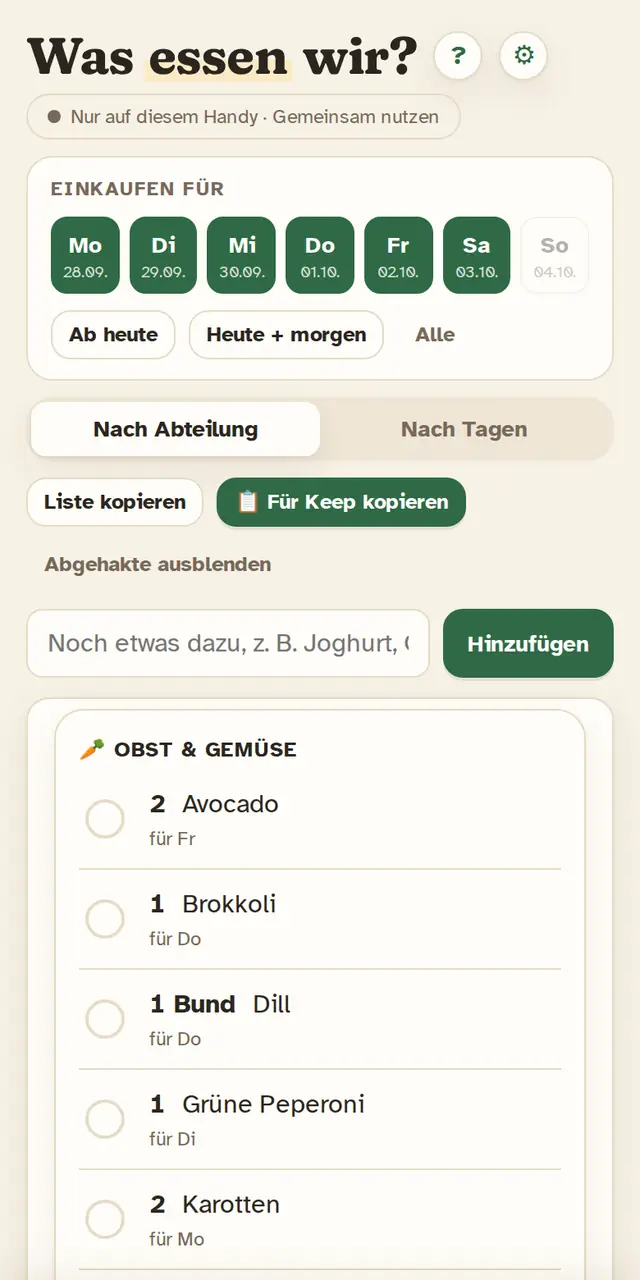
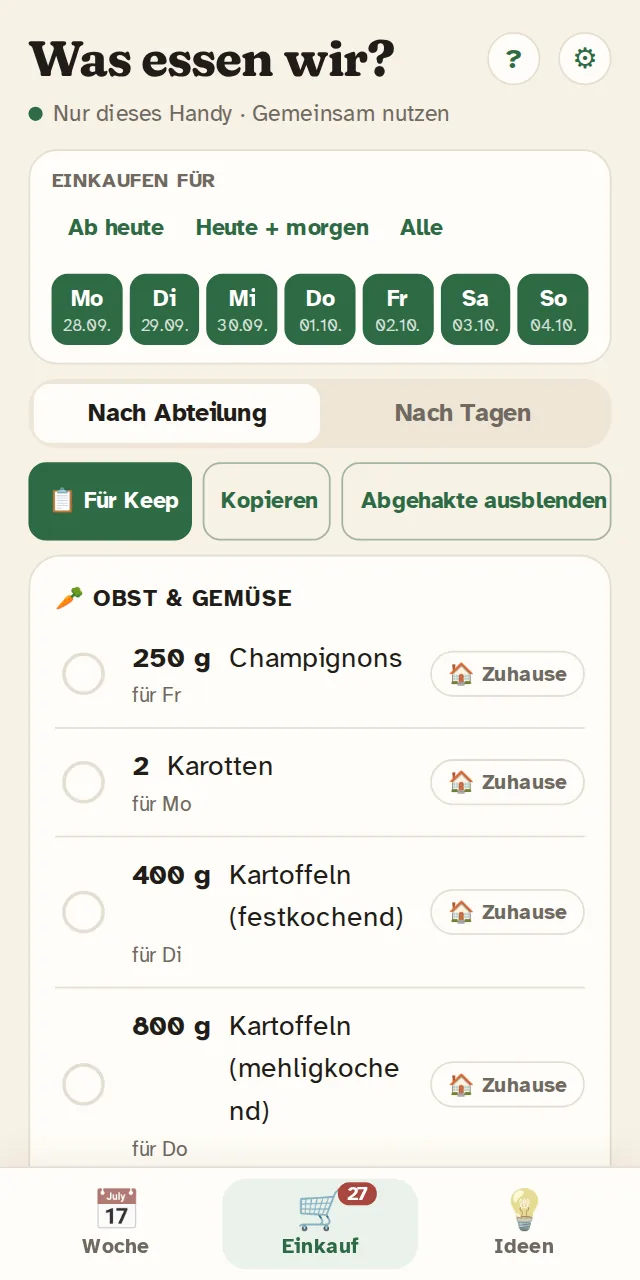
Anleitung: Screenshots und Texte aktualisiert; Layout auf schmalen Handys (Einkaufsliste, Rezept-Zeit)
Claude-Session: https://claude.ai/code/session_01G1VhmtjTG8FTCMXgmGuqa3

diff --git a/index.html b/index.html
@@ -207,7 +207,7 @@ button:focus-visible,input:focus-visible{outline:3px solid var(--mustard);outlin
 .item{display:flex;align-items:center;gap:12px;padding:9px 0;border-bottom:1px dashed var(--line)}
 .item:last-child{border-bottom:0}
 .item input{width:22px;height:22px;accent-color:var(--basil);flex:none;cursor:pointer}
-.item label{flex:1;min-width:0;cursor:pointer;display:grid;grid-template-columns:auto 1fr;column-gap:10px;align-items:baseline}
+.item label{flex:1;min-width:0;cursor:pointer;display:grid;grid-template-columns:auto minmax(0,1fr);overflow-wrap:break-word;column-gap:10px;align-items:baseline}
 .qty{font-variant-numeric:tabular-nums;font-weight:700;white-space:nowrap}
 .item label>span:only-child{grid-column:1/-1}
 .for{font-size:12px;color:var(--muted);grid-column:1/-1}
@@ -408,6 +408,7 @@ details.info p{margin:8px 0 0}
 .day{padding-top:10px;padding-bottom:10px}
 @media (max-width:460px){.day{grid-template-columns:44px 1fr auto;gap:8px}}
 .tags .tg{white-space:nowrap}
+.tags .tg:first-child{white-space:normal}
 .gfb{display:inline-block;font:700 9px/1 var(--body);letter-spacing:.02em;padding:2px 3px;border:1.5px solid currentColor;border-radius:4px;vertical-align:2px;color:var(--basil);margin:0 1px}
 .plan-btn{display:grid;place-items:center;border:1px solid var(--line)!important}
 @media (prefers-color-scheme: dark){:root:not([data-theme="light"]) nav.tabs button[aria-selected="true"]{background:var(--line)}}
@@ -3531,6 +3532,7 @@ function openHelp(first){
         <li><b>×</b> leert den Tag. Danach könnt ihr „Selbst wählen“ (ganze Liste mit Suche und Filtern) oder „Zufällig“ antippen.</li>
         <li><b>Leere Tage füllen</b> würfelt alle freien Tage – unter der Woche nur schnelle Gerichte (Kochzeit in ⚙ einstellbar), bevorzugt vegetarisch und eure Lieblingskategorien.</li>
         <li><b>Plan leeren</b> leert Wochenplan und Einkaufsliste (zur Sicherheit zweimal tippen). Bewertungen, eigene Rezepte und Einstellungen bleiben erhalten.</li>
+        <li><b>⋯</b> neben „Diese Woche“: <b>Woche kopieren …</b> füllt die Woche aus einer anderen (auch aus zuletzt gekochten Wochen) und enthält „Plan leeren“.</li>
         <li>Tipp auf ein Gericht öffnet das Rezept.</li>
       </ul>
     </details>
@@ -3539,7 +3541,8 @@ function openHelp(first){
       <ul>
         <li><b>👍 / 👎</b>: Mag die Familie das? 👍 kommt beim Würfeln öfter dran, 👎 nie.</li>
         <li><b>🕒 Zuletzt gekocht</b> merkt sich die App automatisch aus dem Wochenplan.</li>
-        <li><b>− 3 +</b> rechnet die Zutaten für mehr oder weniger Personen um. Startwert ist eure Personenzahl aus ⚙.</li>
+        <li><b>− 3 +</b> rechnet die Zutaten <b>und die Mengen in den Schritten</b> für mehr oder weniger Personen um. Startwert ist eure Personenzahl aus ⚙.</li>
+        <li><b>👨🍳 Kochmodus</b>: zeigt nur dieses Rezept im Vollbild mit großer Schrift – Zutaten und Schritte zum Abhaken, die Ansicht scrollt von selbst weiter, der Bildschirm bleibt an.</li>
         <li><b>So geht's</b>: Schritte antippen zum Abhaken.</li>
         <li><b>ⓘ Hinweise & Allergene</b>: die 14 Hauptallergene, Quelle und Nährwerte.</li>
         <li>Unten wählst du den Tag, an dem es das Gericht geben soll.</li>
@@ -3562,7 +3565,8 @@ function openHelp(first){
       <ul>
         <li><b>Keine Idee?</b> zeigt oben einen Zufallsvorschlag.</li>
         <li>Suche nach Gericht oder Zutat, z. B. „Feta“ oder „Nudeln“.</li>
-        <li><b>Alle Filter</b> öffnet alle Filter in Gruppen. Mehrere lassen sich kombinieren, z. B. „Vegetarisch“ + „Bis 30 Min“. Aktive Filter stehen als Chips darunter – mit × entfernen.</li>
+        <li><b>Alle Filter</b> öffnet die Filter in Reitern: Essen &amp; Küche, Zeit &amp; Alltag, Gesundheit &amp; Ernährung, Budget, Bewertung und Ohne Allergene. Mehrere lassen sich kombinieren, z. B. „Vegetarisch“ + „Italienisch“. Aktive Filter stehen als Chips darunter – mit × entfernen.</li>
+        <li><b>Alltag</b> (unter „Zeit &amp; Alltag“): Ofengericht, Ein Topf, Gut einzufrieren, Vorkochen, Zum Mitnehmen, Kind kann helfen, Wenige Zutaten und Mit Vorrat machbar.</li>
         <li><b>Ohne Allergene</b>: z. B. „ohne Gluten“ + „ohne Milch“ zeigt nur Gerichte, in denen beides nicht vorkommt.</li>
       </ul>
       <p><b>Die Symbole:</b></p>
